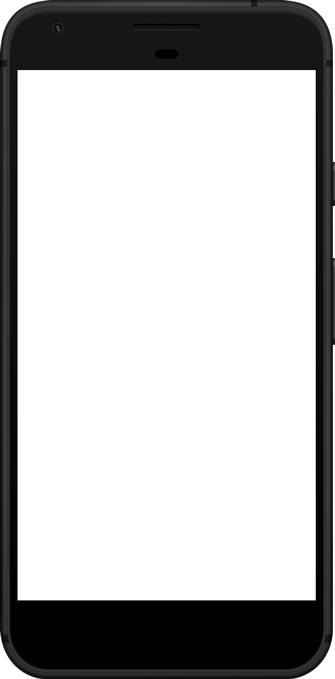
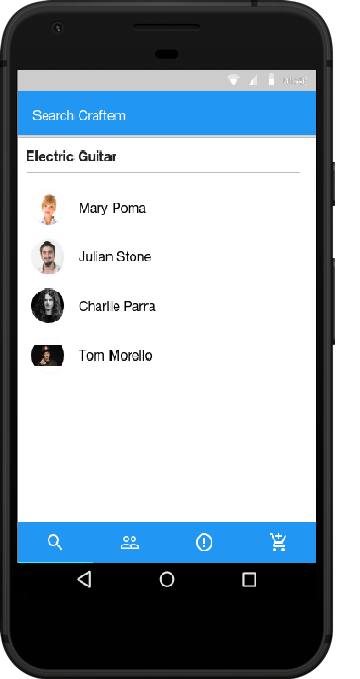
Finalización de Página 1 de 2
Se cambió el texto, editó la imagen de ejemplo, y otras modificaciones

diff --git a/index.html b/index.html
@@ -1,62 +1,93 @@
 <!DOCTYPE html>
 <html>
   <head>
+    <meta name="viewport" content="width=device-width, initial-scale=1.0"/>
     <!--Import Google Icon Font-->
     <link href="http://fonts.googleapis.com/icon?family=Material+Icons" rel="stylesheet">
     <!--Import materialize.css-->
     <link type="text/css" rel="stylesheet" href="css/materialize.css"  media="screen,projection"/>
     <link rel="stylesheet" href="css/mucontact.css">
-    <meta name="viewport" content="width=device-width, initial-scale=1.0"/>
   </head>
   <body>
     <header>
       <div class="container">
         <div class="row">
           <div class="banner">
-            <div class="center-align demo-smartphone">
-              <div class="col s12 m4 l4">
-                <img src="img/mobileblank1.png" alt="" class="responsive-img">
+            <div class="col s12 m4 l4">
+              <div class="center-align demo-smartphone">
+                <img src="img/mobileexample.png" alt="" class="responsive-img">
               </div>
             </div>
             <div class="col s12 m8 l8">
               <div class="center-align description">
                 <p><img src="img/mclogol.png" alt="" class="responsive-img"></p>
-                <p><span class="white-text"><h4>Lorem ipsum dolor sit amet, consectetur adipisicing elit,
-                  sed do eiusmod tempor incididunt ut labore et dolore magna aliqua.
-                  Ut enim ad minim veniam.</h4></span></p>
-                <p><a class="waves-effect waves-light btn-large"><i class="material-icons left">shop</i>Go to Play Store</a></p>
+                <p><span class="txt-dsc white-text"><h4>Modify and keep your instrument in the best conditions by finding the best craftsmen in MuContact App</h4></span></p>
+                <p><a class="waves-effect waves-light blue-text btn-large"><i class="blue-text material-icons left">shop</i>Download from Play Store</a></p>
               </div>
             </div>
           </div>
         </div>
       </div>
     </header>
-    <section>
+    <section class="blue-text second">
       <div class='container '>
         <div class="row">
           <div class="col s12 m4 l4 center-align">
             <p><i class="large material-icons">search</i></p>
-            <p>Lorem ipsum dolor sit amet, consectetur adipisicing elit, sed do eiusmod tempor incididunt ut labore et dolore magna aliqua. </p>
+            <p>Find craftmen in our app application, the best especialists in maintenance and customization are here</p>
           </div>
           <div class="col s12 m4 l4 center-align">
-            <p><i class="large material-icons">settings</i></p>
-            <p>Lorem ipsum dolor sit amet, consectetur adipisicing elit, sed do eiusmod tempor incididunt ut labore et dolore magna aliqua. </p>
+            <p><i class="large material-icons">view_headline</i></p>
+            <p>Create contracts or preform with the craftmen, put all your requirments what you need</p>
           </div>
           <div class="col s12 m4 l4 center-align">
-            <p><i class="large material-icons">my_location</i></p>
-            <p>Lorem ipsum dolor sit amet, consectetur adipisicing elit, sed do eiusmod tempor incididunt ut labore et dolore magna aliqua. </p>
+            <p><i class="large material-icons">loyalty</i></p>
+            <p>You can get amazing giftsa for your contract using this App, like a maintenance, chords, pedals and other thing realtiones with the music. </p>
           </div>
         </div>
       </div>
     </section>
-    <section class="third center-align">
-      <h3 class="center-align white-text">Some Gallery</h2>
-      <div class="carousel">
-        <a class="carousel-item" href="#one!"><img src="http://lorempixel.com/250/250/nature/1"></a>
-        <a class="carousel-item" href="#two!"><img src="http://lorempixel.com/250/250/nature/2"></a>
-        <a class="carousel-item" href="#three!"><img src="http://lorempixel.com/250/250/nature/3"></a>
-        <a class="carousel-item" href="#three!"><img src="http://lorempixel.com/250/250/nature/3"></a>
+    <section>
+      <div class="row">
+        <div class="container">
+        <div class="col s12 m4 l4">
+          <div class="card">
+            <div class="card-image">
+              <img src="http://images.gibson.com/Lifestyle/Spanish/charlie_parra_guitar_2.jpg">
+              <span class="card-title">Charlie Parra</span>
+            </div>
+            <div class="card-content">
+              <p>I am a very simple card. I am good at containing small bits of information. I am convenient because I require little markup to use effectively.</p>
+            </div>
+          </div>
+        </div>
+        <div class="col s12 m4 l4">
+          <div class="card">
+            <div class="card-image">
+              <img src="http://cde.peru21.pe/ima/0/0/3/3/5/335576.jpg">
+              <span class="card-title">Salim Vera</span>
+            </div>
+            <div class="card-content">
+              <p>I am a very simple card. I am good at containing small bits of information. I am convenient because I require little markup to use effectively.</p>
+            </div>
+          </div>
+        </div>
+        <div class="col s12 m4 l4">
+          <div class="card">
+            <div class="card-image">
+              <img src="https://2r62j11x4zsy3ytak02nzvbk24y-wpengine.netdna-ssl.com/wp-content/uploads/2014/10/Julian-Casablancas-with-a-gun-to-his-head.jpg">
+              <span class="card-title">Julian Casablancas</span>
+            </div>
+            <div class="card-content">
+              <p>I am a very simple card. I am good at containing small bits of information. I am convenient because I require little markup to use effectively.</p>
+            </div>
+          </div>
+        </div>
       </div>
+      </div>
+    </section>
+    <section class="center-align">
+      <p><a class="waves-effect waves-light blue-text btn-large"><i class="blue-text material-icons left">shop</i>Download from Play Store</a></p>
     </section>
   <footer class="page-footer">
       <div class="footer-copyright blue-text">

diff --git a/css/mucontact.css b/css/mucontact.css
@@ -9,25 +9,29 @@ header{
   align-items: center;
   text-align: center;
   justify-content: center;
+}**/
+.second{
+  font-size: 1.5em;
 }
-.demo-smartphone{
-  vertical-align: middle;
-  align-content: center;
-  align-items: center;
-  text-align: center;
+.btn-large{background-color: white;}
+.btn-large:hover {
+    background-color: white;
 }
-**/
 .third{
   background-color: #2BA3D4;
   padding: 5%;
 }
 
 .page-footer {
-    padding-top: 0;
+    
     background-color: white;
 }
 .description{
   color: white;
+  padding-top: 5%;
+}
+.txt-dsc{
+
 }
 /**
 @media screen and (max-width: 414px) {
